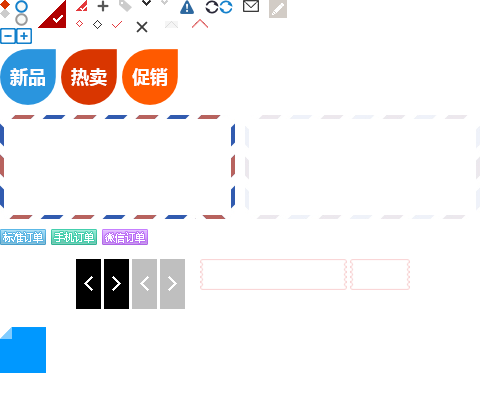
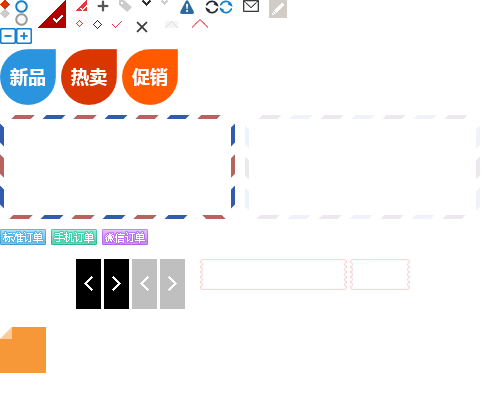
Template수

Changed region(s): [[0.0, 0.81, 0.09, 0.93]]

diff --git a/haidao_install/template/default/statics/css/haidao.css b/haidao_install/template/default/statics/css/haidao.css
@@ -50,7 +50,7 @@ h1 small,.h1 small,h2 small,.h2 small,h3 small,.h3 small{font-size:60%;filter:al
 h4 small,.h4 small,h5 small,.h5 small,h6 small,.h6 small{font-size:12px;filter:alpha(opacity=60);opacity:.6;}
 /*自定义链接颜色(可自由更换)*/
 a{color:#333;text-decoration:none;} /*链接-颜色*/
-a:hover{color:#1380cb;} /*链接-悬浮颜色*/
+a:hover{color:#F69738;} /*链接-悬浮颜色*/
 .text-underline:hover {text-decoration:underline;}
 /*段落*/
 p,.p{line-height:25px;}
@@ -73,8 +73,8 @@ p,.p{line-height:25px;}
 .text-small{font-size:12px !important;}
 .text-little{font-size:10px !important;}
 /*字体颜色*/
-.text-main{color:#2a95de;}/*主色*/
-.text-sub{color:#1380cb;}/*辅色*/
+.text-main{color:#F89828;}/*主色*/
+.text-sub{color:#F69738;}/*辅色*/
 .text-dot{color:#ff5a00;}/*点缀色*/
 .text-mix{color:#d93600;}/*融合色*/
 .text-white{color:#fff;}/*白色*/
@@ -93,8 +93,8 @@ p,.p{line-height:25px;}
 .text-lh-large{line-height: 28px;}
 /***input***/
 .input{font-size:14px;padding:6px;border:solid 1px #ccc;width:100%;height:34px;line-height:20px;display:block;background-color: #fff; -webkit-appearance:none;/*transition:all 1s;*/}
-.input:focus,.input-focus{border-color:#2a95de;background-color:#f5f8fd;/*transition:all 0.3s*/}
-.input:hover,.input-hover{border-color:#2a95de;}
+.input:focus,.input-focus{border-color:#F89828;background-color:#f5f8fd;/*transition:all 0.3s*/}
+.input:hover,.input-hover{border-color:#F89828;}
 .input-error,.input-error:hover{border-color:#d93600;}
 .input-error:focus{border-color:#d93600;background-color:#fff;}
 .input-disabled, .input-disabled:hover, .input[disabled], .input[disabled]:hover {border-color:#999;background-color: #eee;}
@@ -106,11 +106,11 @@ p,.p{line-height:25px;}
 .button.bg-black,.button.bg-dark-grey,.button.bg-main,.button.bg-dot,.button.bg-gray,.button.bg-light-gray,.button.bg-sub,.button.bg-mix,.button.bg-pink,.button.bg-red,.button.bg-orange,.button.bg-blue,.button.bg-green {color:#fff;border:0;}
 .button.bg-black:hover{background:#222;}
 .button.bg-dark-grey:hover{background:#444;}
-.button.bg-main:hover{background:#1380cb;}
+.button.bg-main:hover{background:#F69738;}
 .button.bg-dot:hover{background:#d93600;}
 .button.bg-gray:hover{background:#aaa;}
 .button.bg-light-gray:hover{background:#aaa;}
-.button.bg-sub:hover{background:#2a95de;}
+.button.bg-sub:hover{background:#F89828;}
 .button.bg-mix:hover{background:#ff5a00;}
 .button.bg-white:hover{background:#f1f1f1;}
 .button.bg-gray-white:hover{background:#fff;}
@@ -124,17 +124,17 @@ p,.p{line-height:25px;}
 .button.border-light-gray:hover{background:#ccc;}
 .button.border-gray:hover{background:#999;}
 .button.border-black:hover{background:#000;}
-.button.border-main:hover{background:#2a95de;}
-.button.border-sub:hover{background:#1380cb;}
+.button.border-main:hover{background:#F89828;}
+.button.border-sub:hover{background:#F69738;}
 .button.border-mix:hover{background: #d93600;}
 .button.border-dot:hover{background: #ff5a00;}
 /***select***/
 .select{width:100%;height:26px;border:1px solid #ccc;}
-.select:focus,.select:hover{border-color:#2a95de;}
+.select:focus,.select:hover{border-color:#F89828;}
 /***textarea***/
 .textarea{border:1px solid #ccc;resize: none;}
-.textarea:hover{border-color:#2a95de;}
-.textarea:focus{border-color:#2a95de;background-color:#f5f8fd;}
+.textarea:hover{border-color:#F89828;}
+.textarea:focus{border-color:#F89828;background-color:#f5f8fd;}
 /***margin***/
 /***border***/
 .border{border:solid 1px #ddd;}
@@ -160,8 +160,8 @@ p,.p{line-height:25px;}
 .border-gray-white { border-color: #eee; }
 .border-light-gray { border-color:#ccc; }
 .border-gray { border-color:#999; }
-.border-main { border-color:#2a95de; }
-.border-sub{border-color:#1380cb;}
+.border-main { border-color:#F89828; }
+.border-sub{border-color:#F69738;}
 .border-mix{border-color: #d93600;}
 .border-dot{border-color: #ff5a00;}
 .border-white{border-color: #fff;}
@@ -182,8 +182,8 @@ p,.p{line-height:25px;}
 .bg-black{background: #000;}
 .bg-white{background: #fff;}
 .bg-gray-white{background: #f7f7f7;}
-.bg-main{background: #2a95de;}
-.bg-sub{background: #1380cb;}
+.bg-main{background: #F89828;}
+.bg-sub{background: #F69738;}
 .bg-mix{background: #d93600;}
 .bg-dot{background: #ff5a00;}
 .bg-pink{background: #e13538;}

diff --git a/haidao_install/template/default/common/footer.html b/haidao_install/template/default/common/footer.html
@@ -16,7 +16,7 @@
 				{/loop}
 				{/hd}
 				<dl class="fore last">
-					<dt>&nbsp;<!-- 海盗云商：www.haidao.la --></dt>
+					<dt>&nbsp;<!-- 海盗云商：www.inbay.kr --></dt>
 					<dd>
 						<span><img class="footer-logo" src="{SKIN_PATH}statics/images/logo.png" width="158" /></span>
 					</dd>
@@ -24,15 +24,15 @@
 			</div>
 			{hook/help_between_link data}
 			<div class="container copyright border-top border-gray-white padding-tb clearfix">
-				<p class="cop-left fl w50 text-lh-small"><?php echo SITE_AUTHORIZE == 0? COPYRIGHT:''?></p>
+				<p class="cop-left fl w50 text-lh-small">Powered by <a href="http://www.inbay.kr/" target="_blank">iNBAY.kr</a><br>© 2016 Dmibox Inc.</p>
 				<div class="cop-right fr text-right w50">
 					<?php $cache = cache('setting');?>
 					<p class="text-lh-small"><!-- <a href="">手机版</a> |  -->
 					{if $cache[com_name]}
-					<a target="_blank" href="{$cache[site_url]}">{$cache[com_name]}</a>  
+					<a target="_blank" href="{$cache[site_url]}">{$cache[com_name]}</a>
 					{/if}
 					{if $cache[icp]}
-					|<a target="_blank" href="http://www.miitbeian.gov.cn/">{$cache[icp]}</a> 
+					|<a target="_blank" href="http://www.miitbeian.gov.cn/">{$cache[icp]}</a>
 					{/if}
 					{if $cache[site_statice]}
 					|<a href="">{$cache[site_statice]}</a></p>
@@ -44,22 +44,20 @@
 	</body>
 </html>
 	<script>
-		function current(){ 
-			var d = new Date(); 
-			var year = d.getFullYear(), 
+		function current(){
+			var d = new Date();
+			var year = d.getFullYear(),
 			month = d.getMonth() < 10 ? '0'+(d.getMonth() + 1) : d.getMonth() + 1,
 			date = d.getDate() < 10 ? '0'+d.getDate() : d.getDate(),
 			hours = d.getHours() < 10 ? '0'+d.getHours() : d.getHours(),
 			minutes = d.getMinutes() < 10 ? '0'+d.getMinutes() : d.getMinutes(),
 			seconds = d.getSeconds() < 10 ? '0'+d.getSeconds() : d.getSeconds();
-			return  year+'-'+month+'-'+date+' '+hours+':'+minutes+':'+seconds; 
-		} 
+			return  year+'-'+month+'-'+date+' '+hours+':'+minutes+':'+seconds;
+		}
 		setInterval(function(){$("#time").html(current)},1000);
 		var url = "{url('goods/index/html_load')}";
 		$(function(){
 			$.ajax(url, {}, function(ret){});
 		})
-	</script>  
+	</script>
 	{hook/global_footer data}
-
-

diff --git a/haidao_install/template/wap/statics/css/haidao.css b/haidao_install/template/wap/statics/css/haidao.css
@@ -15,7 +15,7 @@ body{font-size:12px;color:#333;font-family:"Microsoft YaHei","simsun","Helvetica
 .text-drak { color: #35393c; }
 .price-org { color: #fc6e51; }
 .text-pink { color: #f14d4d; }
-.text-blue { color: #0068b7; }
+.text-blue { color: #F69738; }
 .text-red { color: #e03235; }
 
 .strong { font-weight: bold; }

diff --git a/haidao_install/system/module/admin/template/home.tpl.php b/haidao_install/system/module/admin/template/home.tpl.php
@@ -6,7 +6,7 @@
 	?>
 		<div class="fixed-nav layout">
 			<ul>
-				<li class="first">后台首页</li>
+				<li class="first">관리자메인</li>
 				<li class="spacer-gray"></li>
 			</ul>
 			<div class="hr-gray"></div>
@@ -30,18 +30,18 @@
 					<table cellpadding="0" cellspacing="0" class="border bg-white layout">
 						<tbody>
 							<tr class="bg-gray-white line-height-40 border-bottom">
-								<th class="text-left padding-big-left">待办事项</th>
+								<th class="text-left padding-big-left">처리사항</th>
 							</tr>
 							<tr class="border">
 								<td class="padding-big-left padding-big-right padding-bottom">
 									<table cellpadding="0" cellspacing="0" class="layout">
 										<tbody>
 											<tr class="line-height-40">
-												<th class="text-left" colspan="3">订单提醒</th>
+												<th class="text-left" colspan="3">주문알림</th>
 											</tr>
 											<tr class="text-lh-big">
-												<td>待付款订单：<a href="<?php echo url('order/admin_order/index',array('type' => 1)) ?>" title="点击去查看"><b class="text-main" data-id="pay">0</b></a></td>
-												<td>待确认订单：<a href="<?php echo url('order/admin_order/index',array('type' => 2)) ?>" title="点击去查看"><b class="text-main" data-id="confirm">0</b></a></td>
+												<td>입금대기중 상품：<a href="<?php echo url('order/admin_order/index',array('type' => 1)) ?>" title="点击去查看"><b class="text-main" data-id="pay">0</b></a></td>
+												<td>확인대기중 상품：<a href="<?php echo url('order/admin_order/index',array('type' => 2)) ?>" title="点击去查看"><b class="text-main" data-id="confirm">0</b></a></td>
 												<td>待发货订单：<a href="<?php echo url('order/admin_order/index',array('type' => 3)) ?>" title="点击去查看"><b class="text-main" data-id="delivery">0</b></a></td>
 											</tr>
 											<tr class="text-lh-big">

diff --git a/haidao_install/config/config.php b/haidao_install/config/config.php
@@ -46,19 +46,19 @@ return array(
     'DATA_CACHE_SUBDIR'     => false,    // 使用子目录缓存 (自动根据缓存标识的哈希创建子目录)
     'DATA_PATH_LEVEL'       => 1,        // 子目录缓存级别
 
-    'AUTHKEY'               =>'fUQmVqKSgXh7YV3yKNeUhC4n',
+    'AUTHKEY'               =>'vB74cXm9p24B5Kk9H3WzBpZQ',
 
     /* Cookie设置 */
     'COOKIE_EXPIRE'         => 0,    // Coodie有效期
     'COOKIE_DOMAIN'         => '',      // Cookie有效域名
     'COOKIE_PATH'           => '/',     // Cookie路径
-    'COOKIE_PREFIX'         =>'Yd5K6_',      // Cookie前缀 避免冲突
+    'COOKIE_PREFIX'         =>'rGrxY_',      // Cookie前缀 避免冲突
 
     /* SESSION设置 */
     'SESSION_AUTO_START'    => true,    // 是否自动开启Session
     'SESSION_OPTIONS'       => array(), // session 配置数组 支持type name id path expire domain 等参数
     'SESSION_TYPE'          => '', // session hander类型 默认无需设置 除非扩展了session hander驱动
-    'SESSION_PREFIX'        =>'cbpqT_', // session 前缀
+    'SESSION_PREFIX'        =>'hBx5t_', // session 前缀
     //'VAR_SESSION_ID'      => 'session_id',     //sessionID的提交变量
 
 

diff --git a/haidao_install/system/module/admin/template/header.tpl.php b/haidao_install/system/module/admin/template/header.tpl.php
@@ -3,7 +3,7 @@
 	<head>
 		<meta charset="utf-8">
 		<meta http-equiv="X-UA-Compatible" content="IE=edge" >
-		<title>后台首页面板</title>
+		<title>관리자페이지</title>
 		<link type="text/css" rel="stylesheet" href="<?php echo __ROOT__;?>statics/css/haidao.css" />
 		<link type="text/css" rel="stylesheet" href="<?php echo __ROOT__;?>statics/css/admin.css" />
 		<script type="text/javascript" src="<?php echo __ROOT__;?>statics/js/jquery-1.7.2.min.js"></script>

diff --git a/haidao_install/system/module/admin/template/index.tpl.php b/haidao_install/system/module/admin/template/index.tpl.php
@@ -33,7 +33,7 @@
 		</div>
 		<div class="welcome layout">
 			<ul class="clearfix">
-				<li><p>欢迎您：<?php echo $this->admin['username']?></p></li>
+				<li><p>안녕하세요：<?php echo $this->admin['username']?></p></li>
 				<li class="spacer-gray"></li>
 				<li><a href="<?php echo url('admin_setup/edit')?>" data-frame="main_frame">账户管理</a></li>
 				<li class="spacer-gray"></li>
